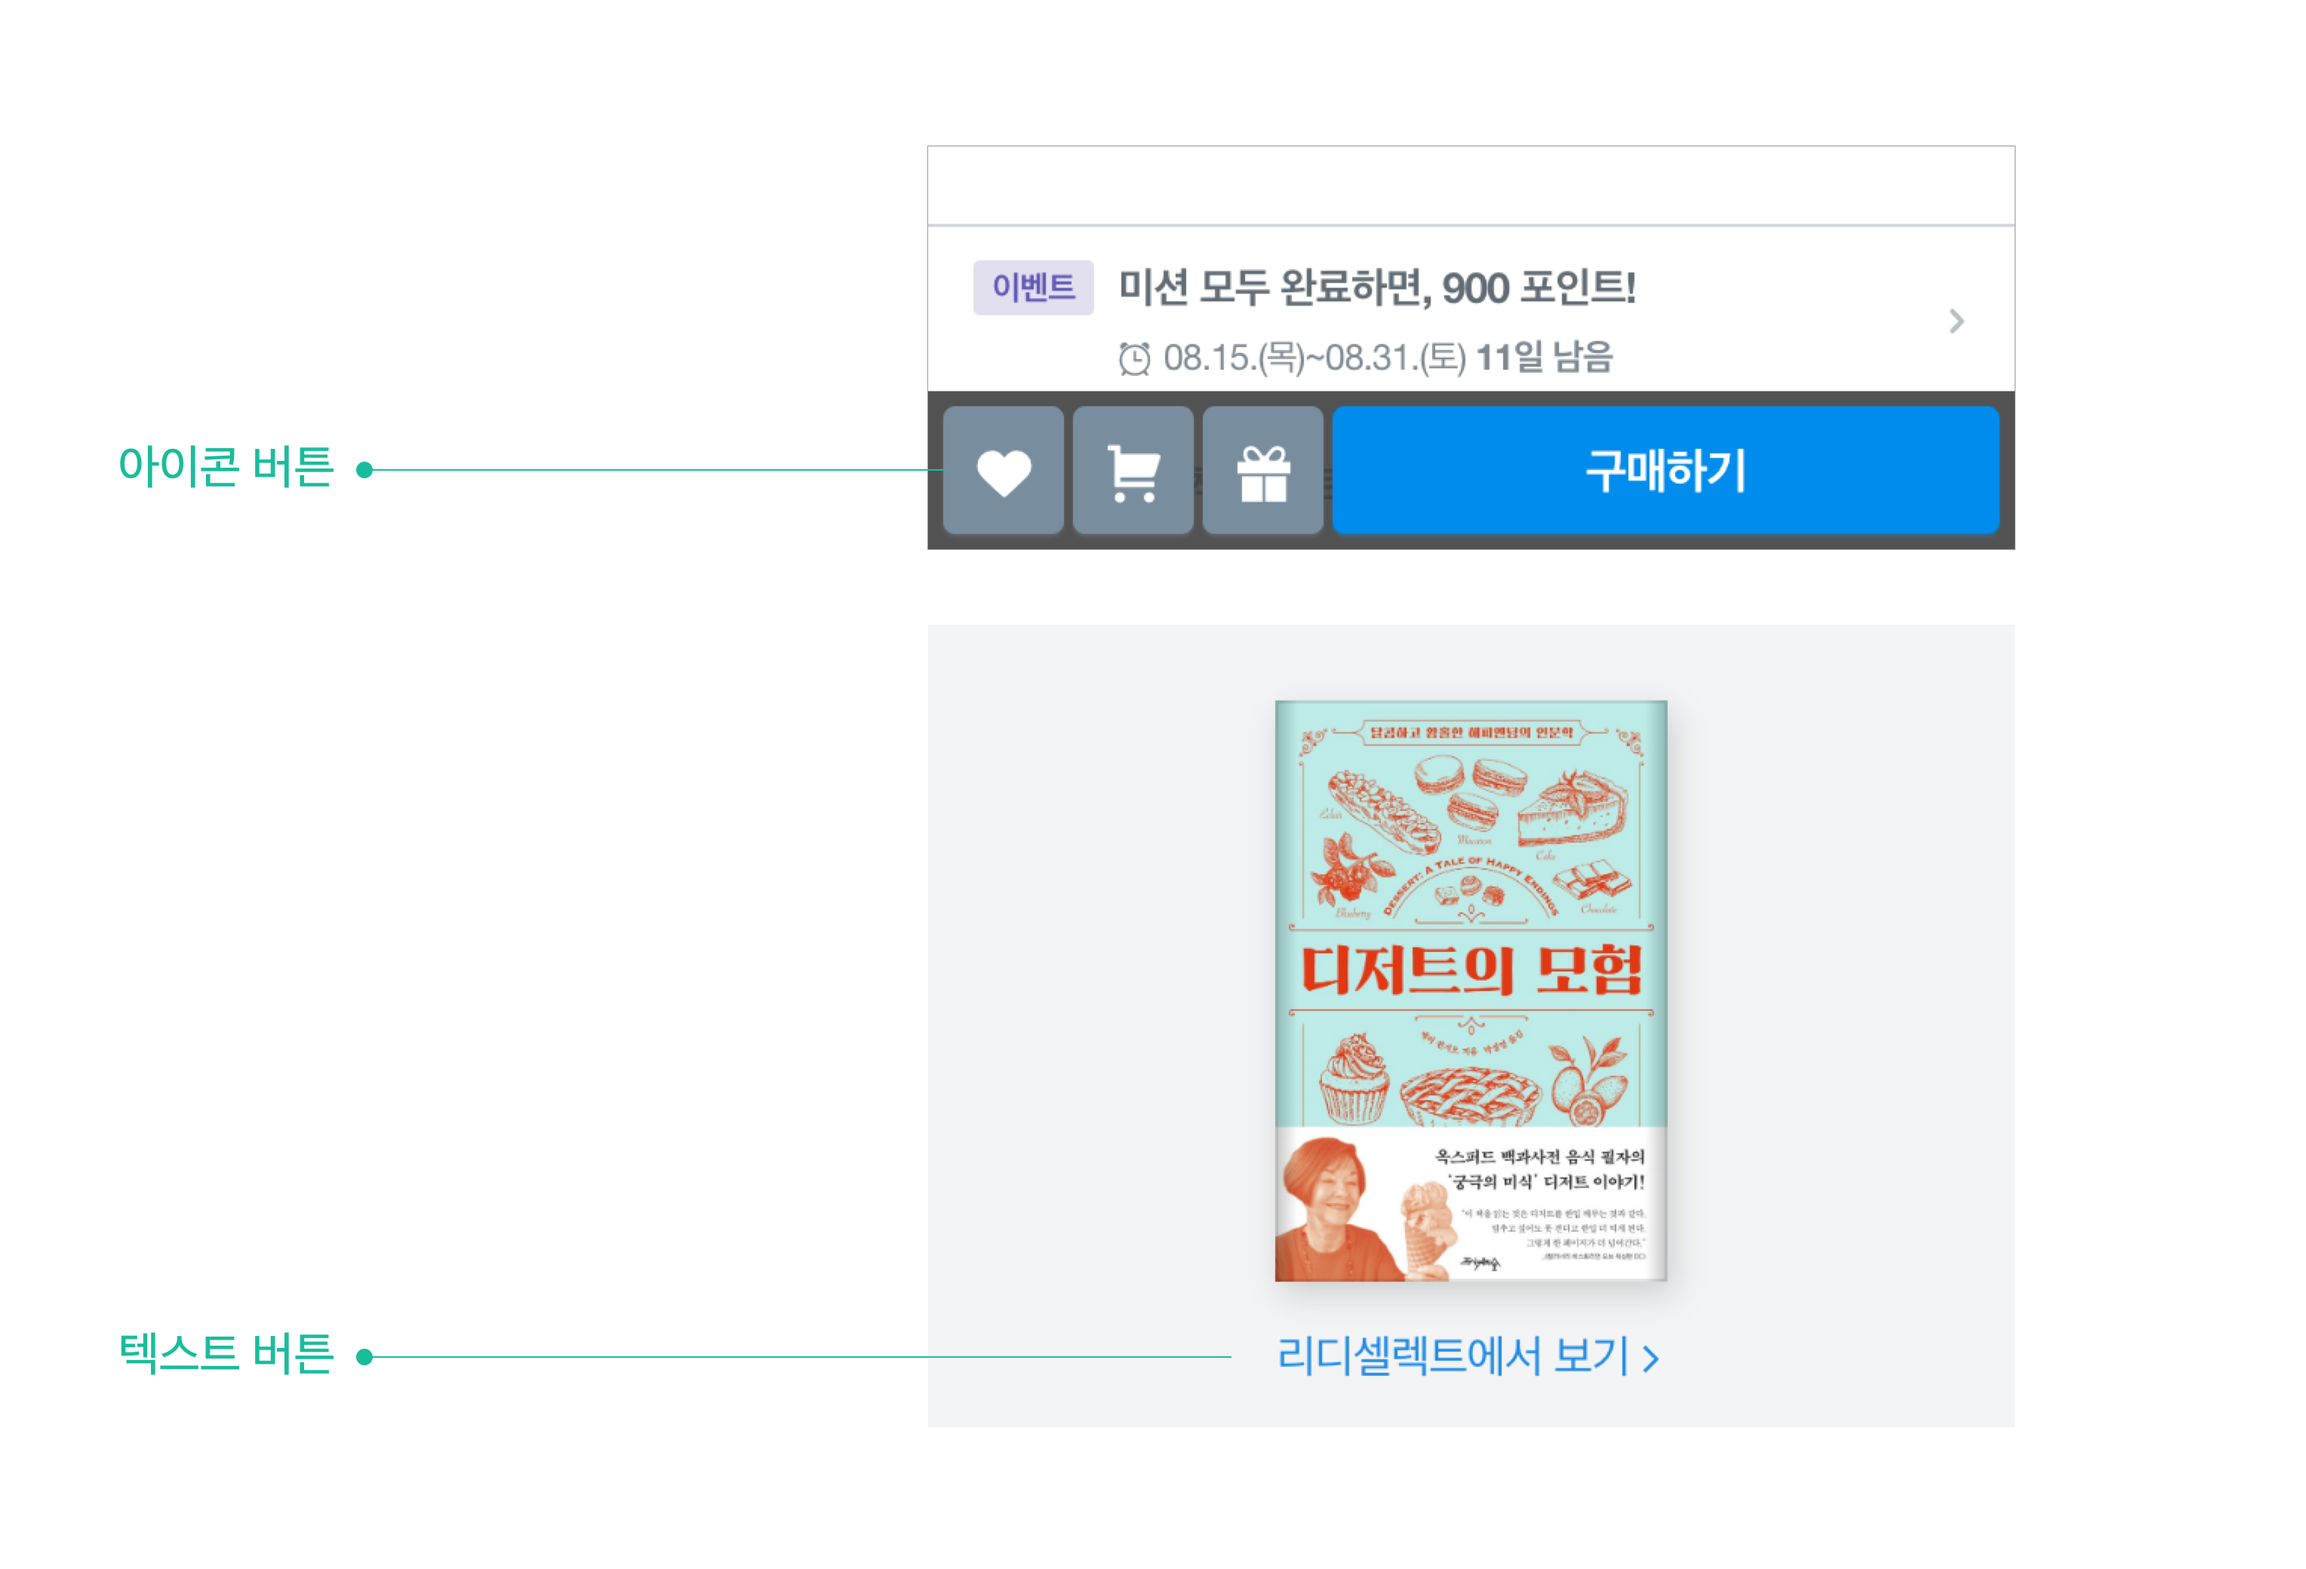
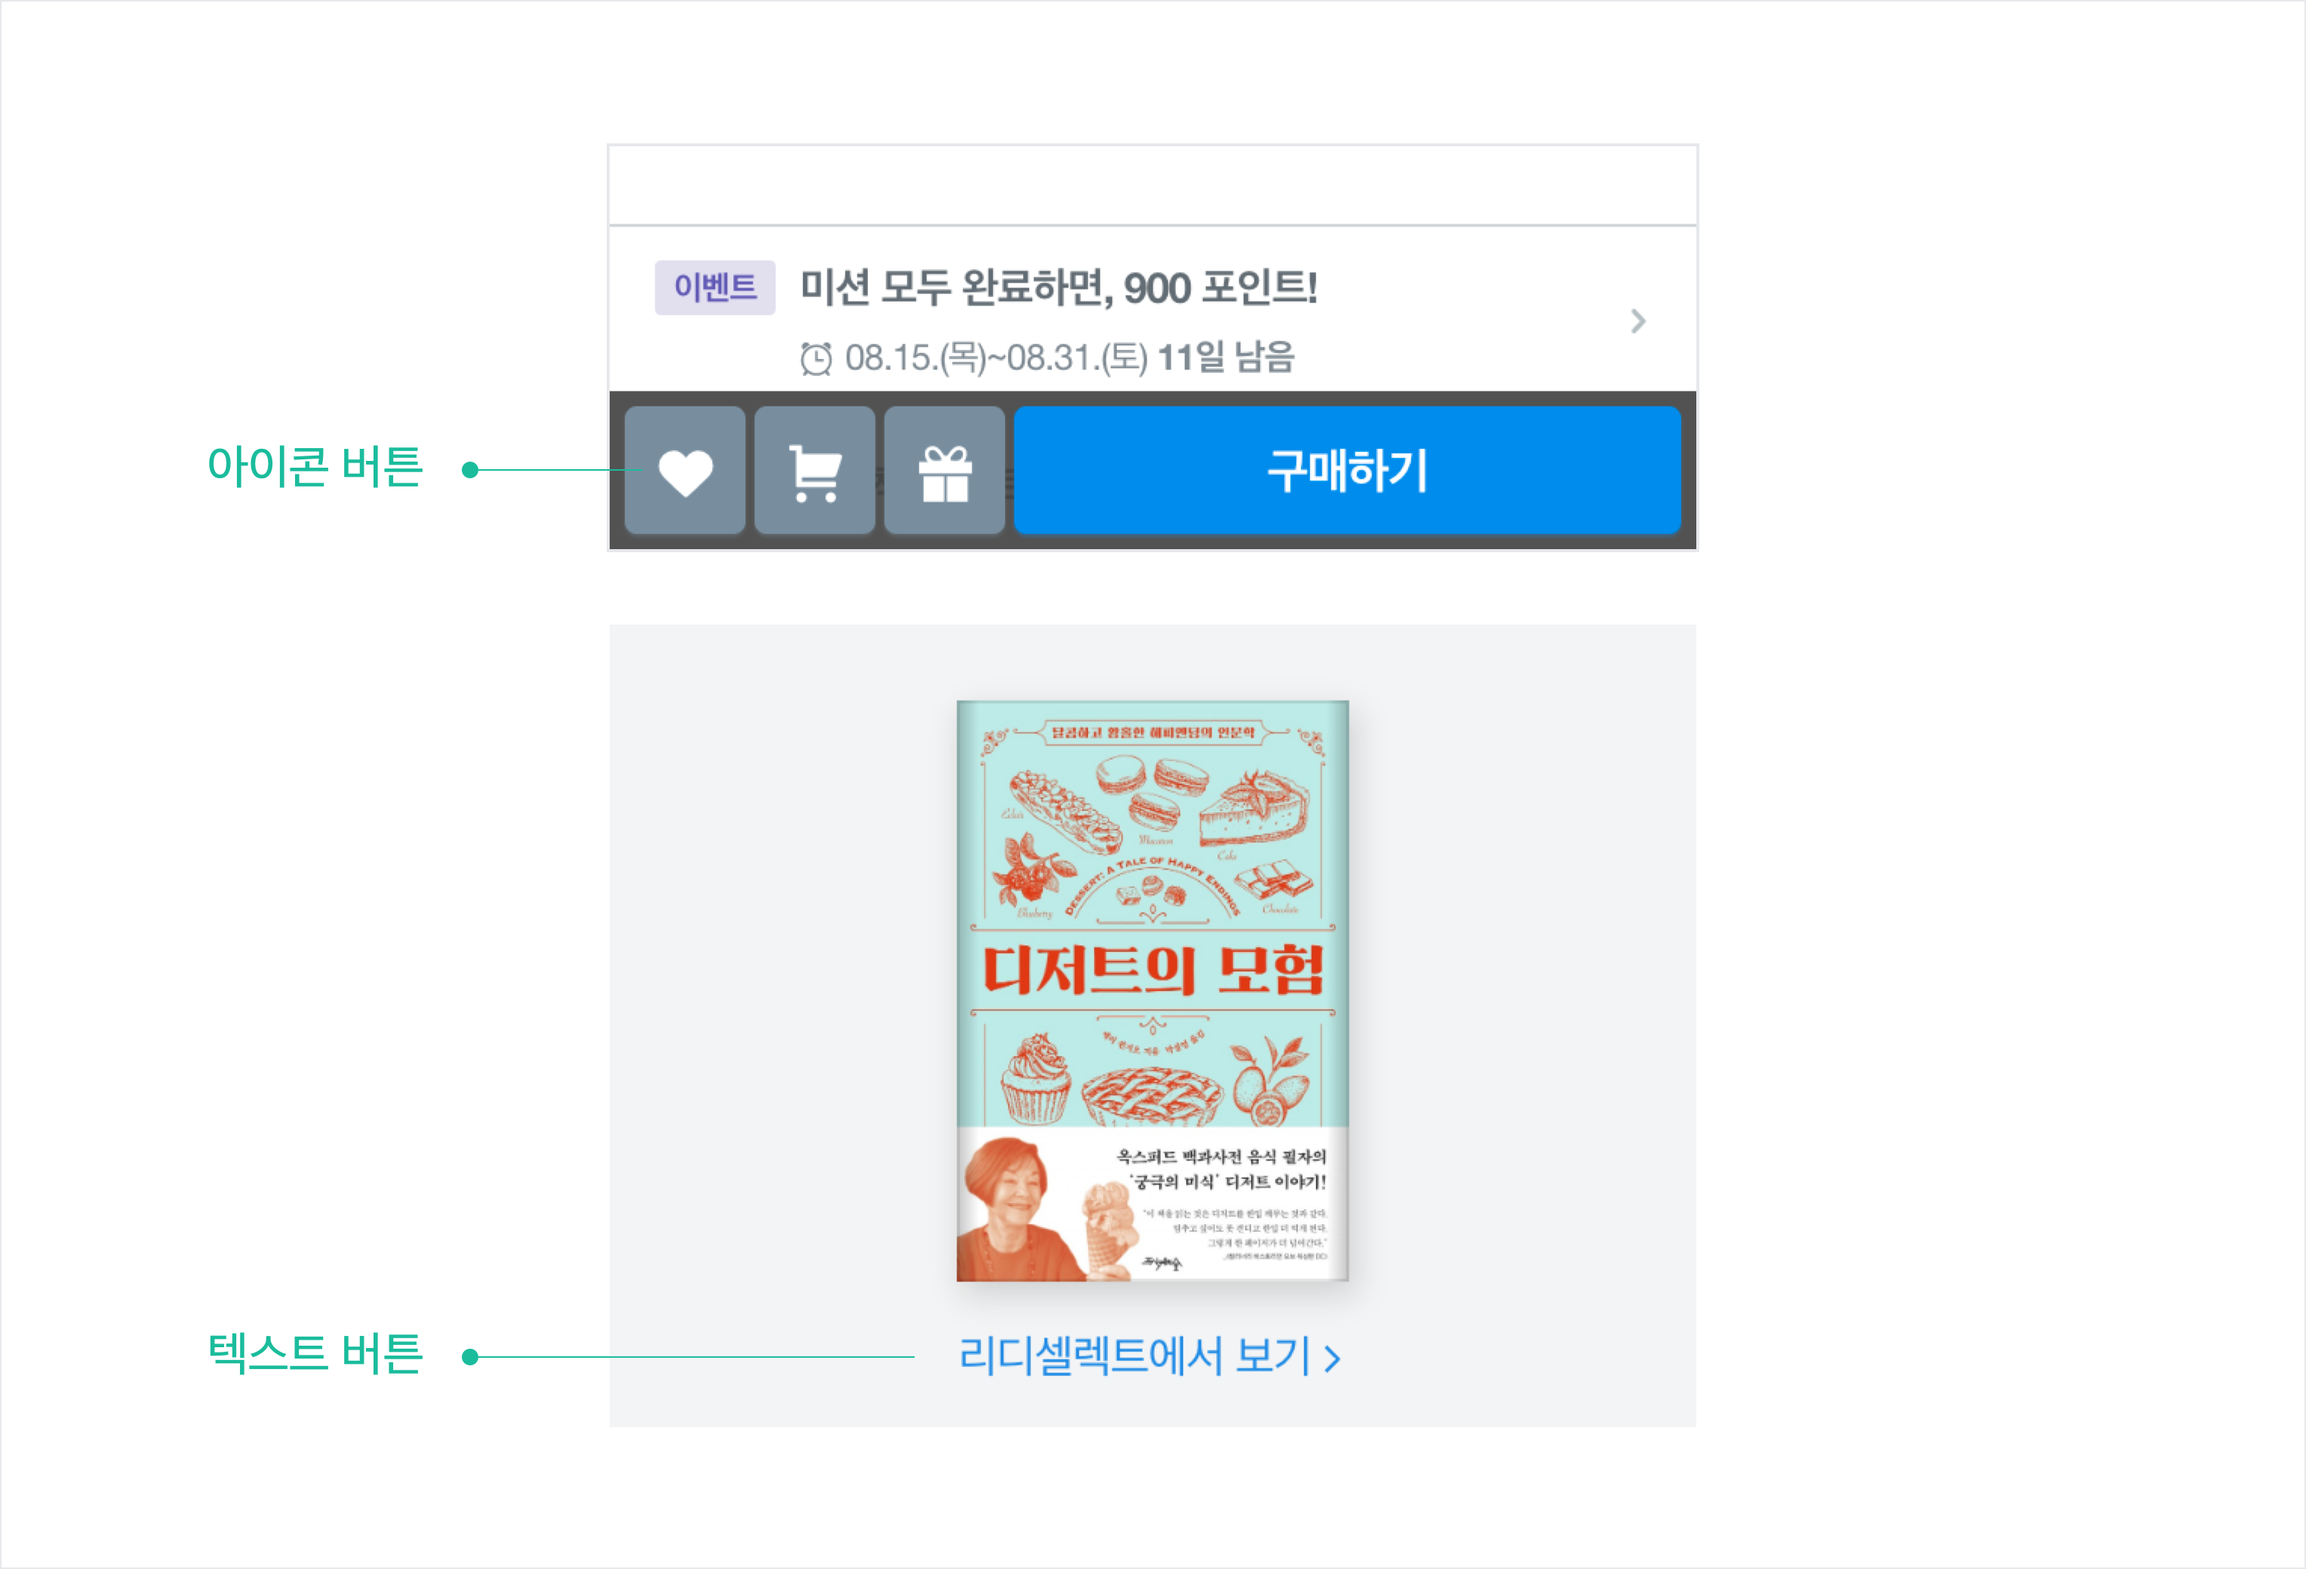
- 리뷰, 회의 내용 반영 - 이미지 추가 및 최적화

diff --git a/docs/_pages/web/components/index.md b/docs/_pages/web/components/index.md
@@ -130,15 +130,11 @@
 
 ## Buttons
 
-버튼은 한 번의 탭으로 액션을 실행합니다.
-
-### 종류
-
-![버튼 종류](button/button-type.png)
+### 형태에 따른 분류
 
 #### 레이블 버튼
 
-- 기본으로 사용하는 버튼으로, 텍스트 레이블은 한 번에 이해할 수 있게 직관적이고 간결하게 작성합니다.
+- 텍스트 레이블은 한 번에 이해할 수 있게 직관적이고 간결하게 작성합니다.
 
 #### 아이콘 레이블 버튼
 
@@ -147,7 +143,7 @@
 - 우측 방향 화살표 아이콘에 한해 레이블 오른쪽에 배치합니다.
 - 아이콘은 레이블과 같은 컬러를 사용합니다.
 
-![버튼 종류](button/button-type-2.png)
+![버튼 종류](button/button-type-1.png)
 
 #### **아이콘 버튼**
 
@@ -160,44 +156,64 @@
 - 텍스트로만 이루어진 버튼으로 사용자를 다른 페이지로 안내하거나 특정 작업을 실행할 수 있도록 돕습니다.
 - 텍스트만으로 의미 전달이 어려울 경우에는 아이콘과 함께 사용하기도 합니다.
 
+![버튼 종류](button/button-type-2.png)
 
 
 ### 컬러에 따른 분류
 
 #### 주요 버튼
 
-- **Dodger blue, Black 필드(filled) 버튼**
+- **Dodger blue 버튼**
   - 페이지 내에서 우선순위가 가장 높은 주요 액션 버튼으로 사용합니다.
+  - PAPER의 경우 E-ink Black 버튼으로 대체합니다.
 
 #### 보조 버튼
 
-- **White, E-ink Black 아웃라인 버튼**
+- **White 버튼**
   - 주요 액션 버튼이 강조되어 있는 페이지 내에서 보조 액션 버튼으로 사용합니다.
-  - 화이트 버튼은 배경색이 진할 때 사용합니다.
-- **Gray 계열, E-ink Gray 버튼**
+  - PAPER의 경우 E-ink Black 아웃라인 버튼으로 대체합니다.
+- **Gray 버튼**
   - 페이지 내에서 다른 버튼과 사용이 겹칠 때 기능을 구분하기 위해 사용합니다.  
 - **Dodger blue 아웃라인 버튼**
   - 부가 정보 및 기능을 제공할 때 사용합니다.
 - **White 아웃라인 버튼**
   - White 버튼의 보조 버튼으로 사용합니다.
-  - 배경색이 진할 때 사용합니다.
+  - 배경색이 어두울 때 사용합니다.
+
+  ![버튼 컬러](button/button-color.png)
+
 
 ### 크기
 
 높이 기준으로 지정된 크기를 주변 디자인 요소에 맞게 사용합니다. 버튼의 가로 폭은 양 끝 영역에 패딩 값을 지정할 수 있습니다.
 
-| 버튼 크기(px) |
-| ------------- |
-| 21            |
-| 25            |
-| 30            |
-| 40            |
-| 50            |
+| 버튼 높이 | 아이콘 크기 | 폰트 크기 | 최소 좌우 패딩 | 아이콘과 레이블 간격 | 
+| ------- | ------ | ----------- | --------------- |
+| 50px | 18px | 16px | 16px | 6px | 
+| 40px | 16px | 14px | 12px | 4px |
+| 30px | 14px | 13px | 8px | 4px |
+| 25px | 13px | 11px | 6px | 4px | 
+| 21px | 11px | 11px | 5px | 4px |
 
-### 그룹
+  ![버튼 크기](button/button-size.png)
 
-기능이 다른 버튼을 같이 배치할 때, 버튼 크기와 사이 간격에 유의합니다. 또한 버튼 그룹에서 주요 버튼을 우측 또는 상단에 위치하도록 레이아웃을 고려해야 합니다.
+
+### 버튼 그룹
+
+- 버튼 그룹은 2개 이상의 버튼 묶음입니다.
+- 버튼 크기와 사이 간격에 유의합니다. 
+- 주요 버튼은 오른쪽 또는 위에 배치합니다.
 - 컬러가 다른 버튼이 2개 이상일 때는 주요 버튼은 오른쪽, 보조 버튼은 왼쪽에 배치합니다.
+
+| 버튼 높이 | 버튼 그룹 간격 | 
+| ------- | ------ |
+| 50px | 8px |
+| 40px | 8px |
+| 30px | 6px |
+| 25px | 5px |
+| 21px | 5px |
+
+  ![버튼 그룹](button/button-group.png)
 
 
 ## Checkboxes
@@ -376,7 +392,6 @@
 ![가로 스크롤 가능 탭](tab/tab-overflow.jpg)
 
 - 주로 탭 아이템 개수가 유동적인 경우 사용합니다.
-
 - 텍스트 레이블의 너비를 기준으로 탭 아이템 가로 길이를 산정하며 탭 아이템은 일정한 여백을 두고 나열됩니다.
 - 데스크톱일 경우 우측에 탭 아이템을 계속 넘겨볼 수 있는 버튼이 추가되어야 합니다.
 
